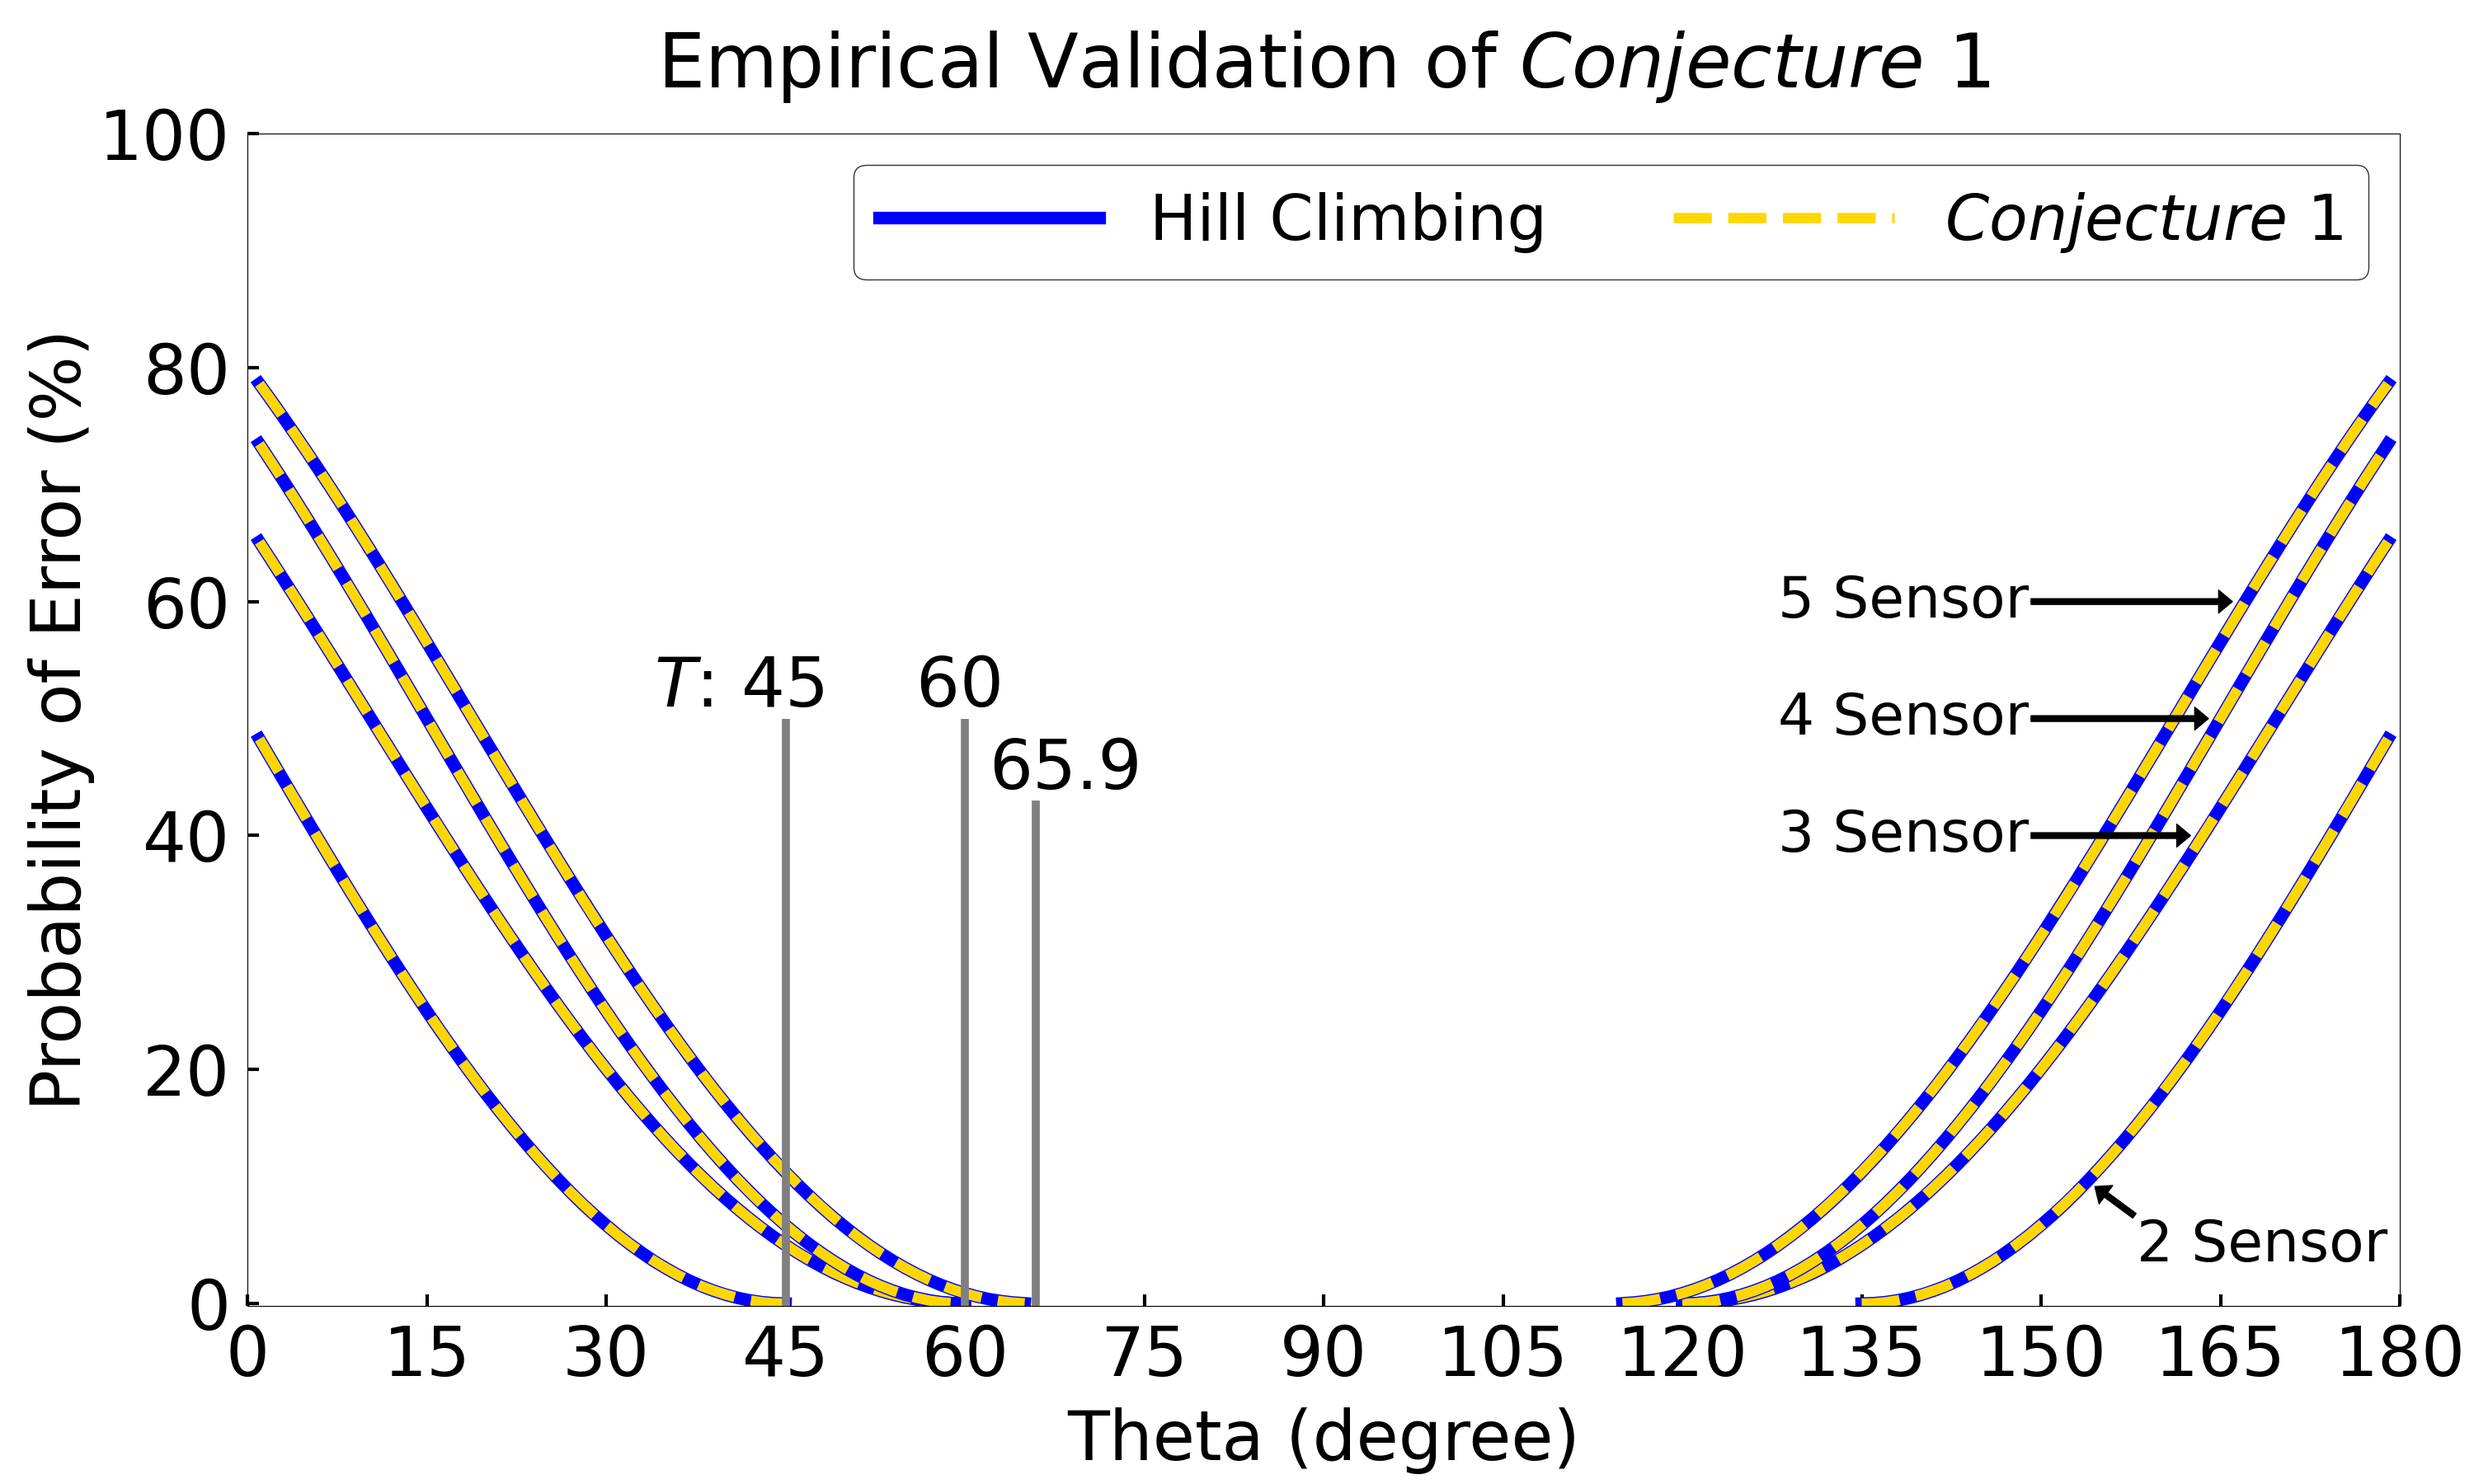
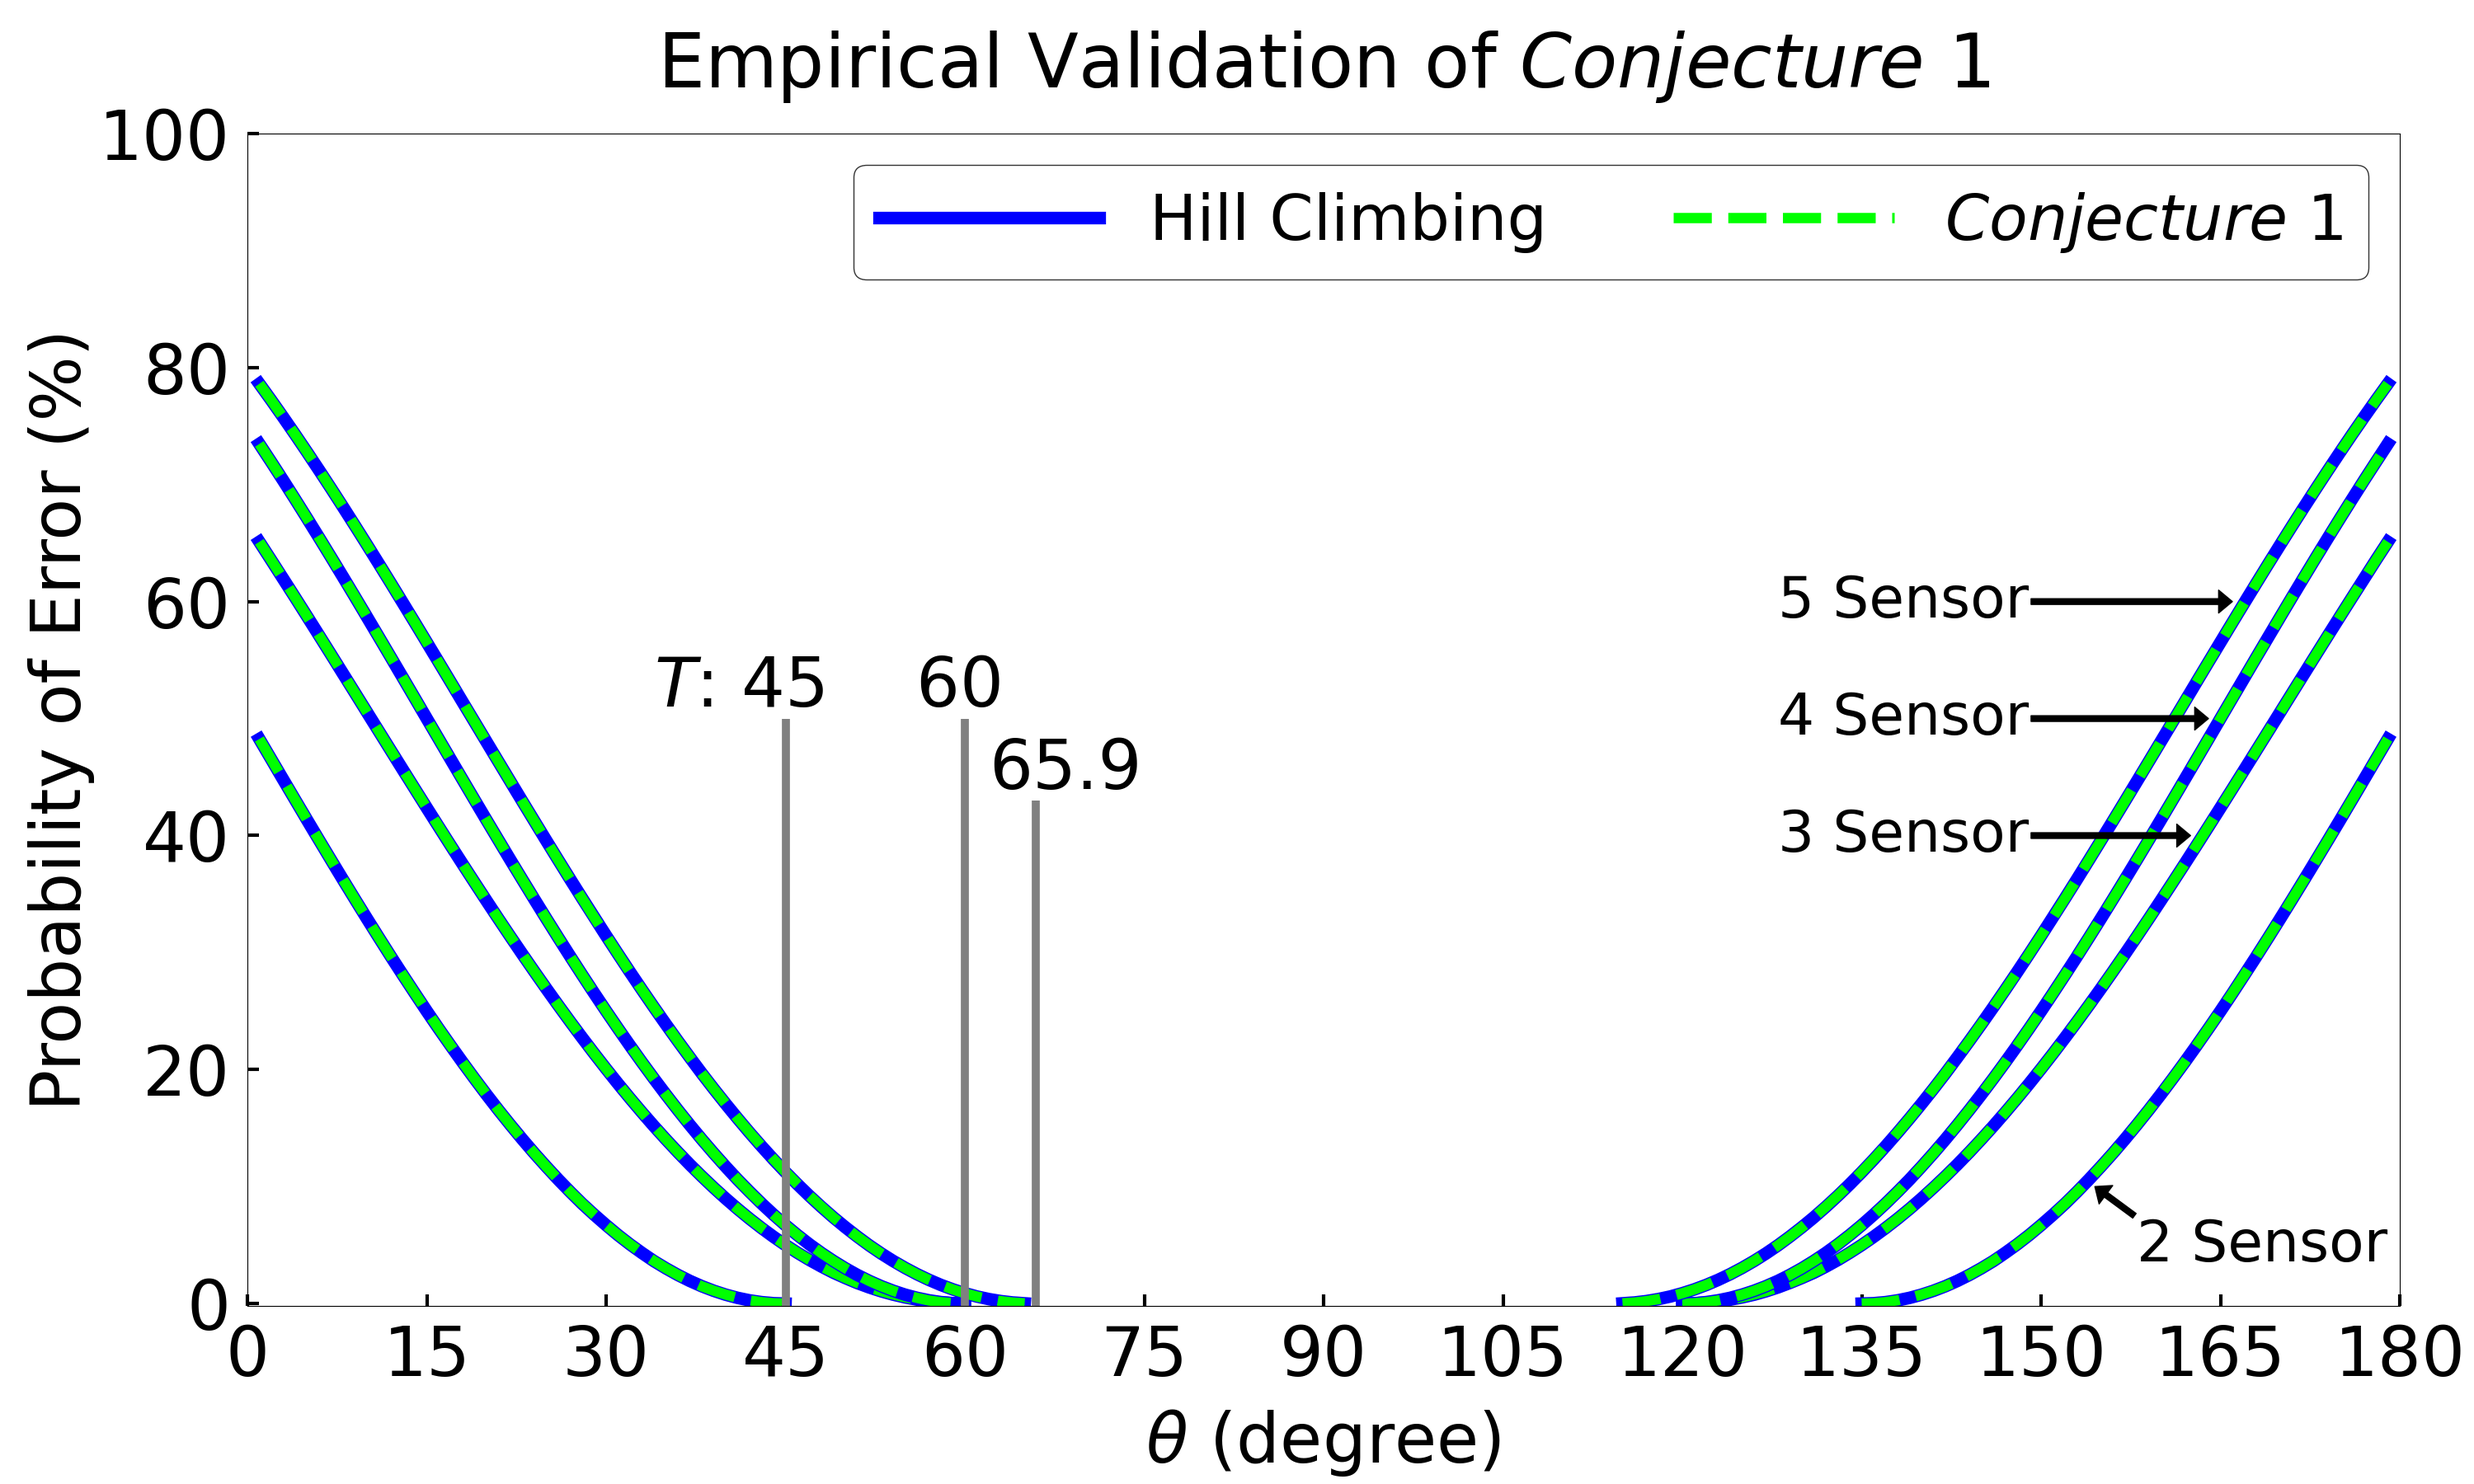
update plots

diff --git a/plot.py b/plot.py
@@ -163,7 +163,7 @@ class Plot:
         ax.tick_params(axis='y', direction='in', length=10, width=3, pad=15)
         ax.set_title('Empirical Validation of Search Heuristics', fontsize=65, pad=40)
         ax.legend(ncol=2, loc='upper right',  fontsize=55, handlelength=3.5, edgecolor='black')
-        ax.set_xlabel('Theta (degree)', labelpad=15)
+        ax.set_xlabel('$\\theta$ (degree)', labelpad=15)
         ax.set_ylabel('Probability of Error (%)', fontsize=60)
         fig.savefig(filename)
 
@@ -176,7 +176,7 @@ class Plot:
         for myinput, output_by_methods in data:
             for method, output in output_by_methods.items():
                 if myinput.unitary_theta == theta:
-                    table[method] = 1 - np.array(output.scores[:50])  # success --> error
+                    table[method] = 1 - np.array(output.scores[:100])  # success --> error
         Y = table
         
         # plotting
@@ -189,17 +189,17 @@ class Plot:
         ax.plot(Y[methods[2]], label=Plot.METHOD[methods[2]], linestyle=Plot.LINE_STYLE[methods[2]], color=Plot.COLOR[methods[2]], linewidth=10)
         ax.plot(Y[methods[1]], label=Plot.METHOD[methods[1]], linestyle=Plot.LINE_STYLE[methods[1]], color=Plot.COLOR[methods[1]], linewidth=8)
         ax.legend(fontsize=50, bbox_to_anchor=(0.45, 0.8), handlelength=3)
-        xticks = [i for i in range(0, 51, 10)]
+        xticks = [i for i in range(0, 101, 10)]
         ax.set_xticks(xticks)
         ax.set_xticklabels([f'{x}' for x in xticks])
         yticks = [0.05, 0.06, 0.07, 0.08, 0.09, 0.1, 0.11, 0.12, 0.13]
         ax.set_yticks(yticks)
         ax.set_yticklabels([f'{int(y * 100)}' for y in yticks])
-        ax.tick_params(axis='x', direction='in', length=10, width=3, pad=15)
-        ax.tick_params(axis='y', direction='in', length=10, width=3, pad=15)
+        ax.tick_params(axis='x', direction='in',  length=10, width=3, pad=15)
+        ax.tick_params(axis='y', direction='out', length=10, width=3, pad=15)
         ax.set_title('Heuristic Algo. Searching Process when $\\theta$ = 46', fontsize=60, pad=50)
         ax.set_xlabel('Iteration Number', labelpad=30)
-        ax.set_xlim([-0.1, 50])
+        ax.set_xlim([-0.1, 100])
         ax.set_ylabel('Probability of Error (%)', fontsize=60, labelpad=30)
         ax.set_ylim([0.05, 0.133])
         ax.annotate('Random Initial State', xy=(0.5, 0.189), xytext=(5, 0.189), arrowprops=arrowprops, fontsize=50, va='center')
@@ -225,8 +225,8 @@ class Plot:
             axes[i].errorbar(X, y, yerr=yerr, linewidth=5, capsize=20, capthick=5, fmt=' ', marker='.', markersize=45, color='r', ecolor='b')
             axes[i].yaxis.grid()
             axes[i].set_xlim([2.7, 5.3])
-            axes[i].set_title(f'Theta={t}', fontsize=60, pad=20)
-            axes[i].set_xlabel('Number of Sensors', fontsize=55, labelpad=15)
+            axes[i].set_title(f'$\\theta$={t}', fontsize=60, pad=20)
+            axes[i].set_xlabel('Number of Sensors', fontsize=58, labelpad=15)
             axes[i].tick_params(axis='y', direction='in', length=10, width=4)
             axes[i].tick_params(pad=10)
         
@@ -328,7 +328,6 @@ class Plot:
 
     @staticmethod
     def conjecture(data, filename):
-
         # step 1: prepare data
 
         table_2sensor = defaultdict(list)
@@ -457,7 +456,7 @@ class Plot:
         ax.tick_params(axis='y', direction='in', length=10, width=3, pad=15)
         ax.set_title('Empirical Validation of $Conjecture$ 1', fontsize=65, pad=40)
         ax.legend(ncol=2, loc='upper right',  fontsize=55, handlelength=3.5, edgecolor='black')
-        ax.set_xlabel('Theta (degree)', labelpad=15)
+        ax.set_xlabel('$\\theta$ (degree)', labelpad=15)
         ax.set_ylabel('Probability of Error (%)', fontsize=60)
         fig.savefig(filename)
 
@@ -502,8 +501,9 @@ class Plot:
         methods = ['Hill climbing', 'Simulated annealing', 'Genetic algorithm']
         for method in methods:
             ax.plot(table[method][:100], label=method, linestyle=Plot.LINE_STYLE[method], color=Plot.COLOR[method])
-        ax.legend(fontsize=45)
-        ax.set_title(f'Various Methods at $theta={theta}$', pad=40, fontsize=60)
+      
+        ax.legend(fontsize=45, handlelength=3)
+        ax.set_title(f'Various Methods at $\\theta={theta}$', pad=40, fontsize=60)
         ax.set_xlabel('Iteration', labelpad=20)
         ax.set_ylabel('Symmetry Index', labelpad=20)
         ax.set_ylim([-0.001, 1])
@@ -525,9 +525,9 @@ class Plot:
         fig.subplots_adjust(left=0.13, right=0.96, top=0.9, bottom=0.15)
         thetas = [6, 26, 46, 66, 86]
         for theta in thetas:
-            ax.plot(table[theta][:100], label=str(theta))
-        ax.legend(fontsize=45)
-        ax.set_title('Hill Climbing, varying $theta$', pad=40, fontsize=60)
+            ax.plot(table[theta][:100], label=f'$\\theta$={theta}')
+        ax.legend(fontsize=45, handlelength=3)
+        ax.set_title('Hill Climbing with varying $\\theta$', pad=40, fontsize=60)
         ax.set_xlabel('Iteration', labelpad=20)
         ax.set_ylabel('Symmetry Index', labelpad=20)
         ax.set_ylim([-0.001, 1])
@@ -894,16 +894,17 @@ def conjecture():
 def symmetry():
     logs = ['result/5.22.2023/symmetry_theta46', 'result/5.22.2023/symmetry_theta66', 'result/5.22.2023/symmetry_thetas']
     data = Logger.read_log(logs)
-    # filename = 'result/5.22.2023/symmetry_vary{}.png'
+    filename = 'result/5.22.2023/symmetry_vary{}.png'
     # Plot.symmetry_varyseed(data, filename.format('seed'))
-    # Plot.symmetry_varymethod(data, filename.format('method'))
     # Plot.symmetry_varymethod_poe(data, filename.format('method_poe'))
-    # Plot.symmetry_varytheta(data, filename.format('theta'))
+    
+    Plot.symmetry_varymethod(data, filename.format('method'))
+    Plot.symmetry_varytheta(data, filename.format('theta'))
 
-    filename = 'result/5.22.2023/poe_symmetry.png'
-    Plot.symmetry_poe_varymethod(data, filename)
-    filename = 'result/5.22.2023/poe_symmetry_zoomin.png'
-    Plot.symmetry_poe_varymethod_zoomin(data, filename)
+    # filename = 'result/5.22.2023/poe_symmetry.png'
+    # Plot.symmetry_poe_varymethod(data, filename)
+    # filename = 'result/5.22.2023/poe_symmetry_zoomin.png'
+    # Plot.symmetry_poe_varymethod_zoomin(data, filename)
 
 
 def unambiguous_vary_theta():
@@ -921,5 +922,5 @@ if __name__ == '__main__':
     # lemma2()
     # lemma3()
     # conjecture()
-    # symmetry()
-    unambiguous_vary_theta()
+    symmetry()
+    # unambiguous_vary_theta()

diff --git a/runner.py b/runner.py
@@ -59,26 +59,26 @@ if __name__ == '__main__':
     # print('start working')
 
     command = ['python', 'main.py']
-    # base_args = ["-us", "2", "-m", "Guess", "Hill climbing",  "-mi", "100", "-rn", "True"]
-    # base_args = ["-us", "2", "-m", "Simulated annealing", "-mi", "100", "-rn", "True"]
+    # base_args = ["-us", "2", "-m", "Guess", "Hill climbing",  "-mi", "100"]
+    # base_args = ["-us", "2", "-m", "Simulated annealing", "-mi", "100"]
     # base_args = ["-us", "2", "-m", "Hill climbing (NE)", "Guess", "-mi", "100"]
     # base_args = ["-us", "2", "-m", "Genetic algorithm", "Guess", "-mi", "100", "-ps", "32"]
     # base_args = ["-us", "2", "-m", "Particle swarm", "Guess", "-mi", "100", "-ps", "32"]
 
-    base_args = ["-us", "2", "-m", "Simulated annealing", "-mi", "200"]
+    # base_args = ["-us", "2", "-m", "Hill climbing C", "-mi", "100"]
     # base_args = ["-us", "2", "-m", "Theorem"]
     # base_args = ["-us", "2", "-m", "Genetic algorithm", "-mi", "100", "-ps", "64"]
     # base_args = ["-us", "2", "-m", "Hill climbing", "Simulated annealing", "Genetic algorithm", "-mi", "100", "-ps", "32"]
-    # base_args = ["-us", "2", "-m", "Simulated annealing", "-mi", "100", "-rn", "True"]
+    base_args = ["-us", "2", "-m", "Simulated annealing", "-mi", "100"]
 
     num_sensor  = 4
     equal       = True
-    eval_metric = 'unambiguous'  # 'min error' or 'unambiguous' or 'computational'
-    # output_dir  = 'result/6.21.2023'
-    # output_file = 'unambiguous_varytheta_6sen'
-    output_dir  = 'result-tmp2'
-    output_file = 'foo'
-    thetas      = [i for i in range(56, 57)]
+    eval_metric = 'min error'  # 'min error' or 'unambiguous' or 'computational'
+    output_dir  = 'result/12.26.2022'
+    output_file = 'compare_methods_4sensors'
+    # output_dir  = 'result-tmp2'
+    # output_file = 'foo'
+    thetas      = [i for i in range(46, 47)]
     # thetas      = [86]
     # start_seed  = list(range(5))
     start_seed  = [0]
